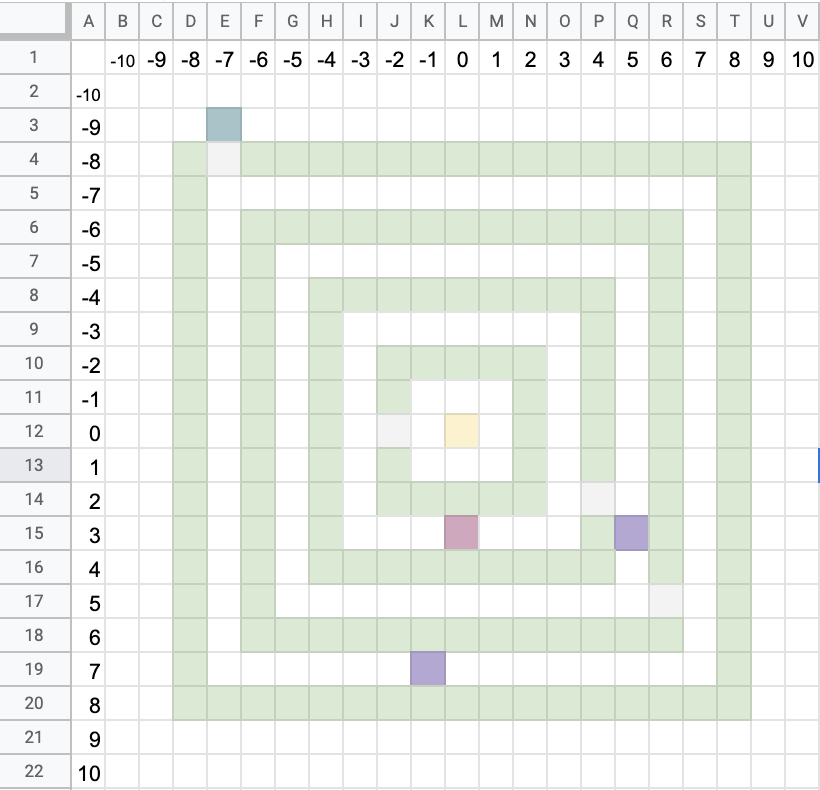
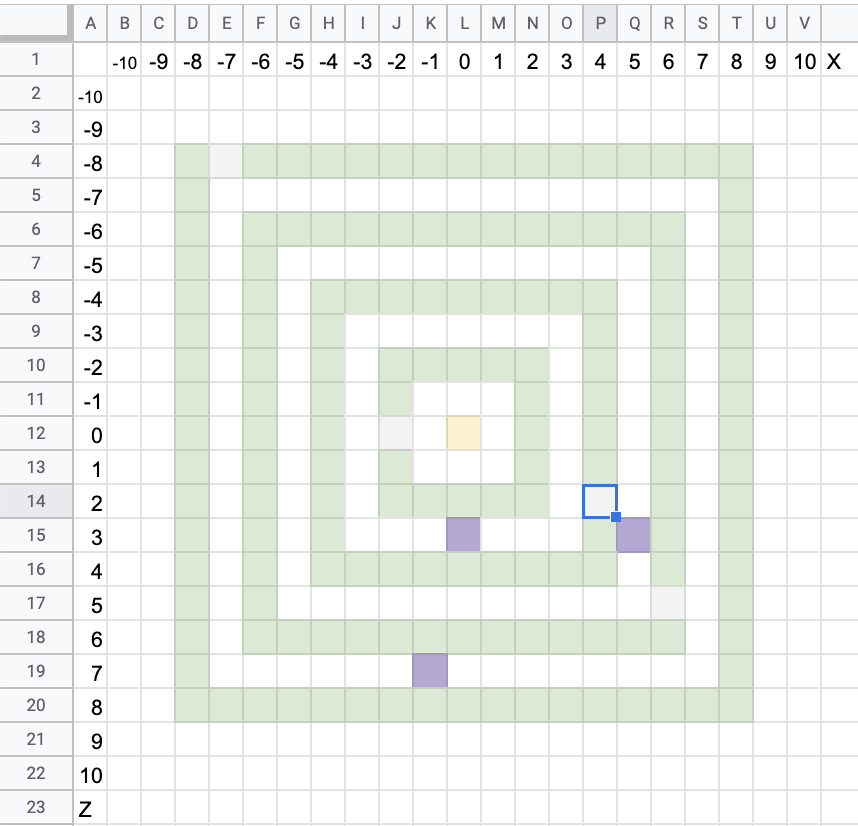
labirint

diff --git a/labirint/README.MD b/labirint/README.MD
@@ -29,6 +29,12 @@
 2. Зробіть заготовку лабіринту із 4-х квадратів навколо точки (20;4;20)
 3. Зробіть заготовку лабіринту із 5-и квадратів навколо точки (-20;4;-20)
 
+## Проходи і загородження. План
+Намалюємо в створених контурах проходи між контурами (щоб можна було переходити з першого контура на другий, з другого на третій). А також поставим загородженні в кожному рівні.  
+<img src = "img/labirint02.png" width = "600">
+
+Реалізуємо дану карту за допомогою коду: створемо проходи між рівнями та загородження.
+
 ## Проходи між рівнями в лабірінті
 ### Прохід у 1-му контурі (внутрішньому)
 <img src = "img/space2.png" width = "600">  
@@ -71,3 +77,46 @@
 <img src = "img/overlap8_view.png" width = "600">
 
 
+## Використання циклів
+Попереднє завдання займає багато блоків. І якщо його переписати (на мові програмістів це називається *рефакторінг*) із використанням циклів, то можно значно скоротити кількість блоків.
+
+<img src = "img/labirint10.png">  
+<img src = "img/labirint_c2.png">  
+<img src = "img/labirint_c2_view.png">  
+
+
+### Додаткове завдання
+Окрім того, що ми використвуємо цикли ми можемо в залежності від номеру проходу циклу (значення змінної **index**) змінювати матеріал з якого робимо відповідні елементи.
+
+<img src = "img/labirint_c3.png">  
+<img src = "img/labirint_c3_view.png"> 
+
+
+
+### Творче завдання
+Для стврення проекту власного лабіринту використайте заготовку за посиланням:  
+[Заготовка лабіринту](https://docs.google.com/spreadsheets/d/1YTkfpzDfgZiIFWdcG07Nmok5ZMHS7TFatgf3W-VLPBY/edit#gid=1625087866)
+
+Для цього скопіюйте документ собі (ви маєте бути авторизовані під обліковим записом Google, якщо ви підключені до Google.Meet зазвичай так і є):  
+<img src = "img/labirint12.png">
+<img src = "img/labirint13.png">
+
+### Проходи
+Проходи між рівнями позначте білим фоном ячійок  
+<img src = "img/labirint14.png">  
+<img src = "img/labirint15.png">  
+Додайте відповідний блок команд для створення проходу в Майнкрафті:  
+<img src = "img/labirint16.png">
+Загороження на рівнях позначте фіолетовим фоном ячійок
+<img src = "img/labirint17.png">
+<img src = "img/labirint18.png">
+Додайте відповідний блок команд для створення проходу в Майнкрафті:  
+<img src = "img/labirint19.png">
+
+
+
+
+
+1. Сформуйте план лабіринту та ствооріть Лабірінт з 4-х контурів.
+2. Сформуйте план лабіринту та ствооріть Лабірінт з 2-х контурів.
+3. Сформуйте план лабіринту та ствооріть Лабірінт з 5-и контурів.
